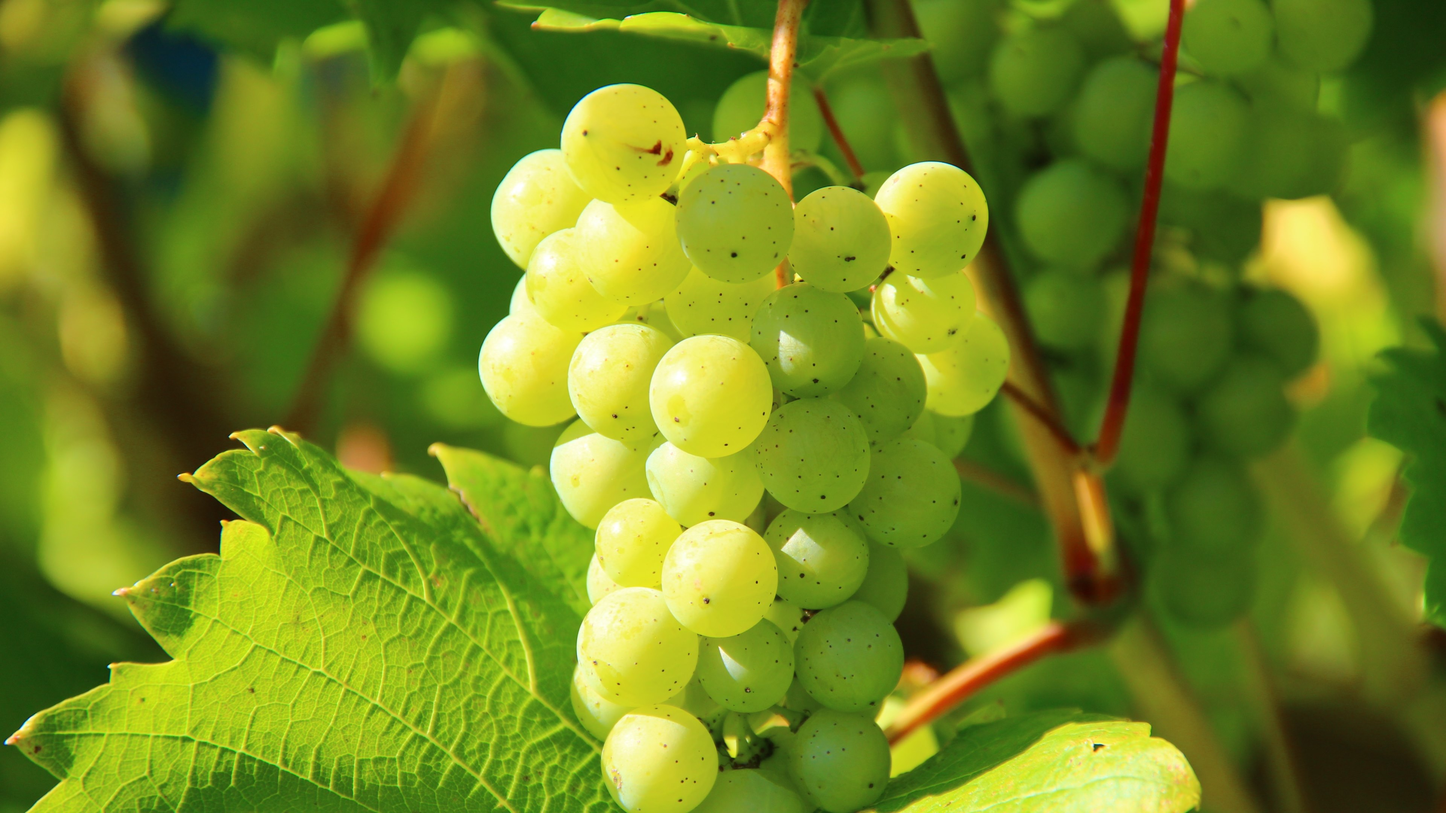
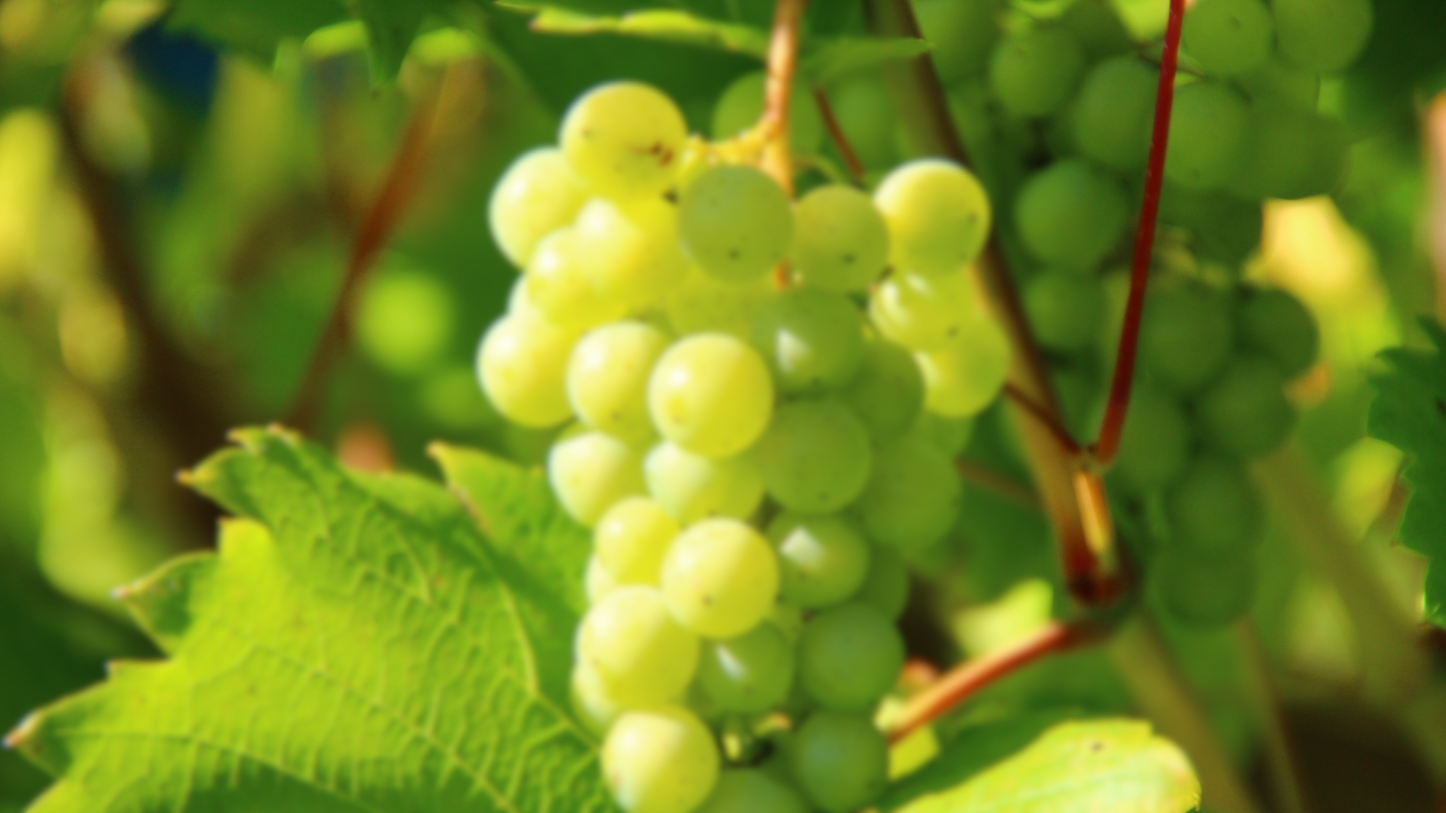
KEVIN: fixed blur and added circle

diff --git a/main.css b/main.css
@@ -16,33 +16,12 @@ body {
 	margin-left: 0;
 	height: 100%;
 	width: 100%;
-<<<<<<< HEAD
-	
-	position: fixed;
-	-webkit-filter: blur(5px);
-    -moz-filter: blur(5px);
-    -o-filter: blur(5px);
-    -ms-filter: blur(5px);
-    filter: blur(5px);
-}
-
-=======
 	position: relative;
-	-webkit-filter: blur(3px);
-    -moz-filter: blur(3px);
-    -o-filter: blur(3px);
-    -ms-filter: blur(3px);
-    filter: blur(3px);
->>>>>>> 5adabf8bb67a27ae465ef47469e952d9b03933a9
 	background: url("grapes.jpg");
 	background-size: cover;
 	
 }
 
-<<<<<<< HEAD
-=======
-
->>>>>>> 5adabf8bb67a27ae465ef47469e952d9b03933a9
 
 .nav-container{
 	position: fixed;

diff --git a/index.php b/index.php
@@ -32,18 +32,21 @@
 
 <section class="panel b-blue" id="home">
 	    <div class="jumbotron">
-		<h1 class="panel__headline" id="aboutUs">hgfnhfnb</h1>
-	    </div>
-<<<<<<< HEAD
+	    
+	    	<svg height="100" width="100">
+				<circle cx="50" cy="50" r="40" stroke="black" stroke-width="3" fill="red" /> 
+		</svg></div>
+
+
  </section>
-=======
+
     <div class="panel__content">
       <h1 class="panel__headline" id="aboutUs"></h1>
        	<ul>
 	     </ul>
     </div>
 </section>
->>>>>>> 5adabf8bb67a27ae465ef47469e952d9b03933a9
+
 
 
 <section class="panel b-orange" id="1">
